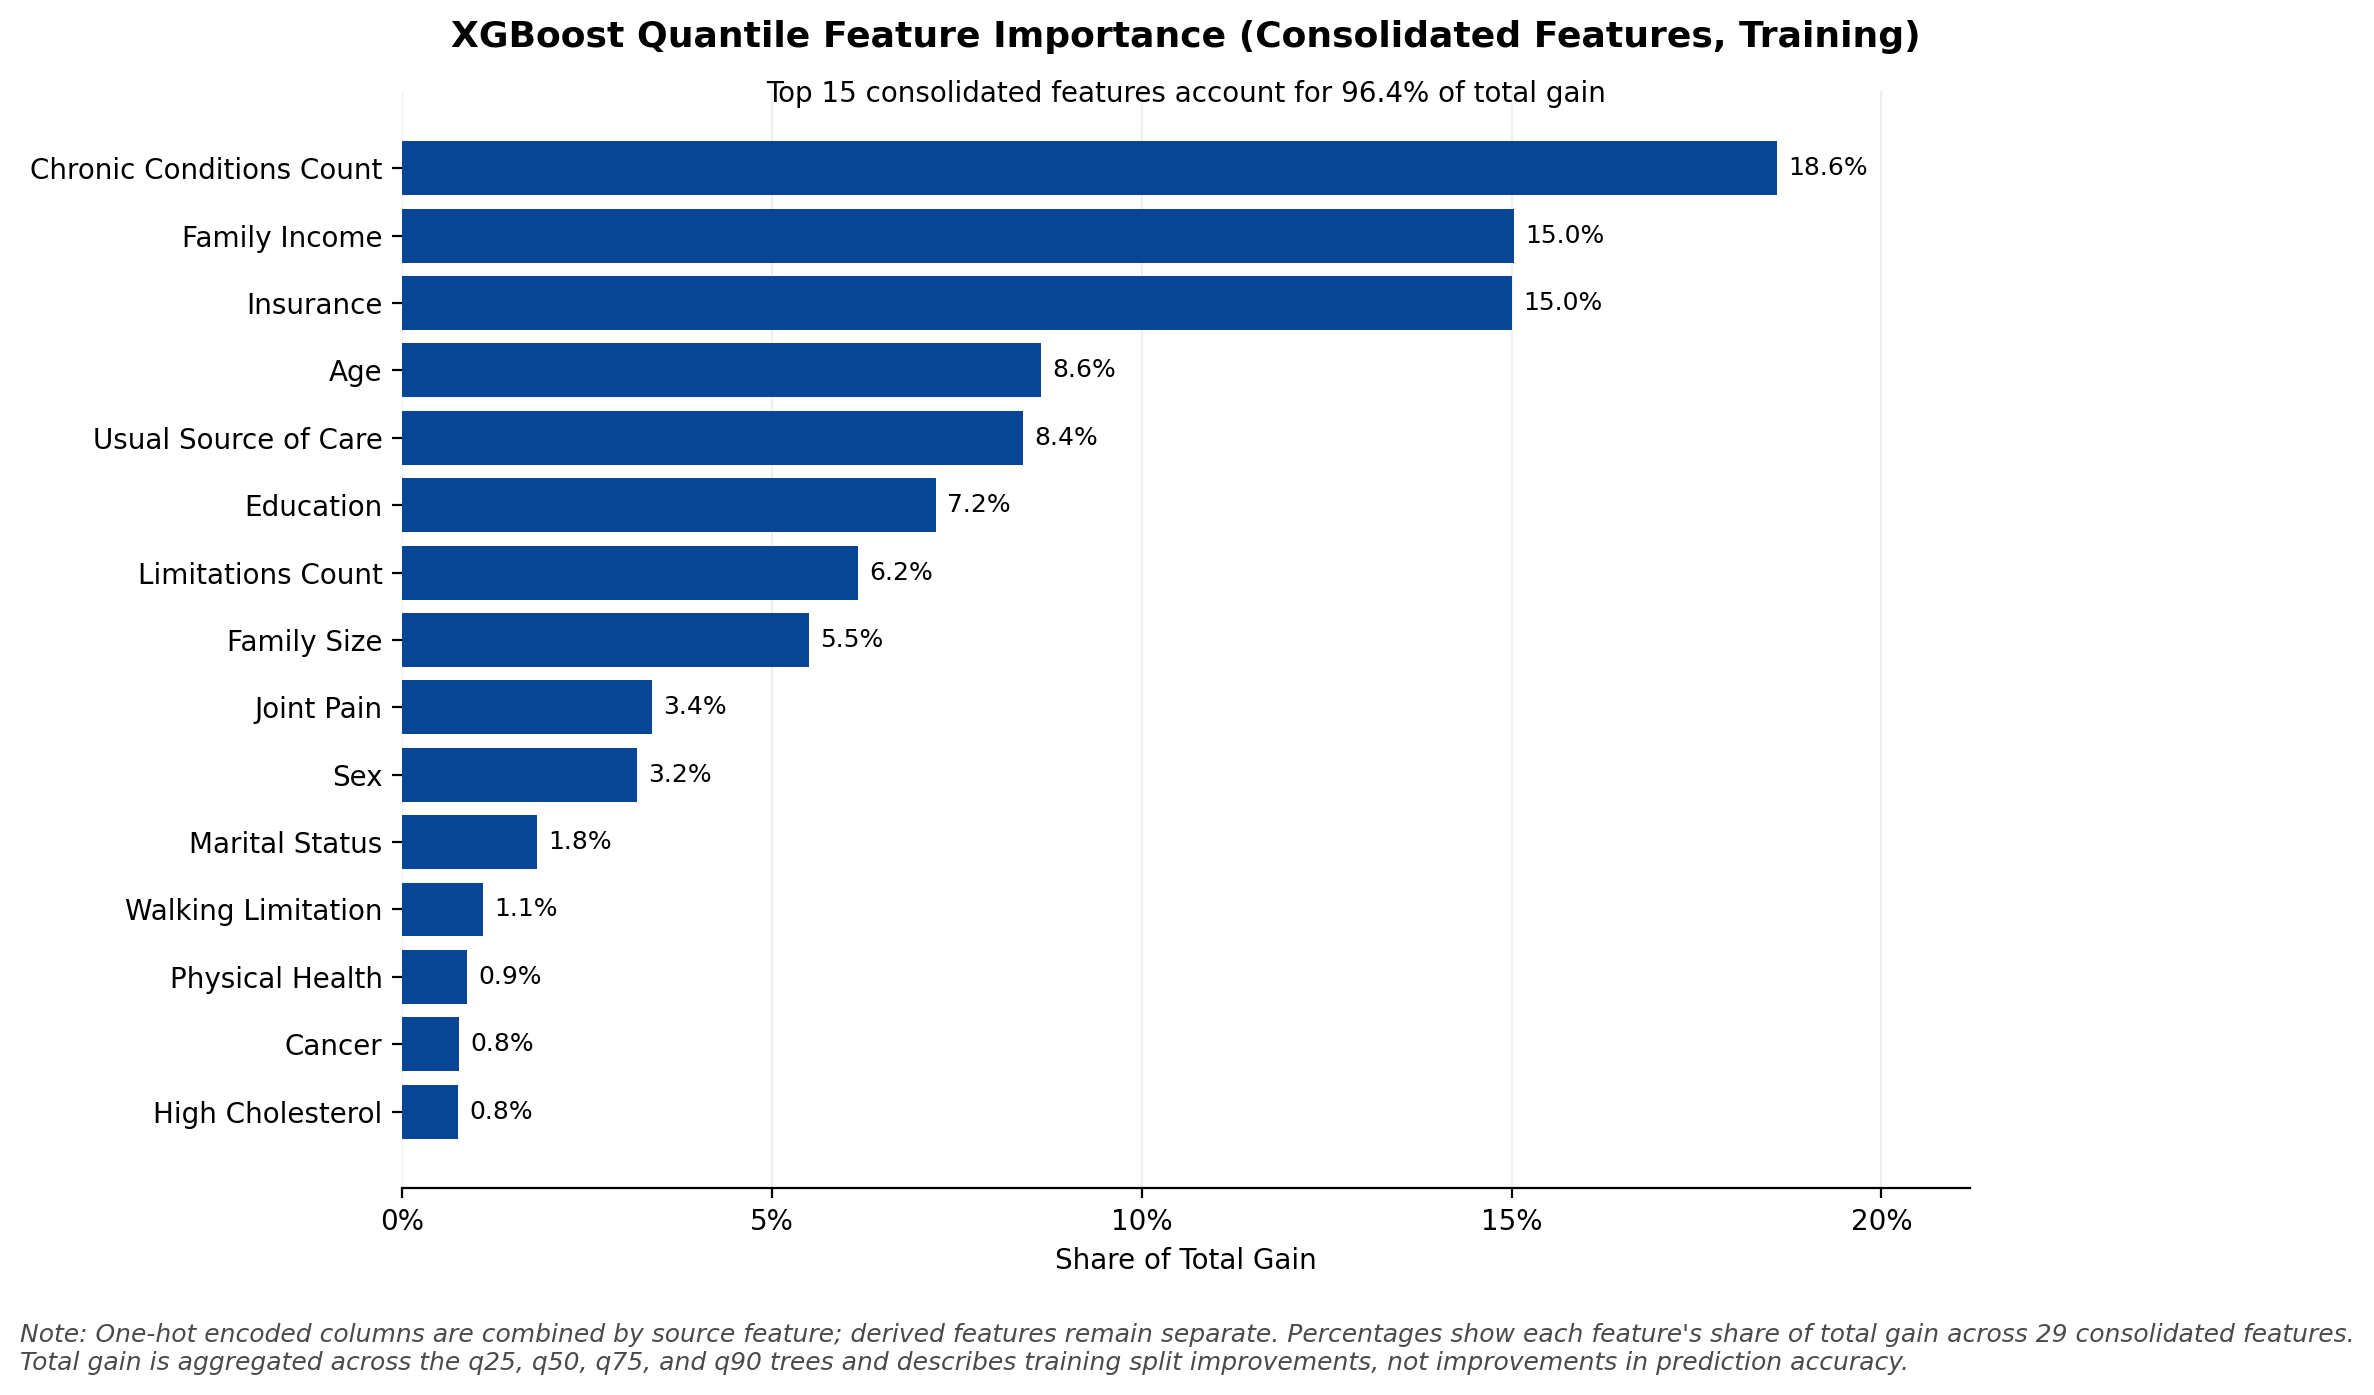
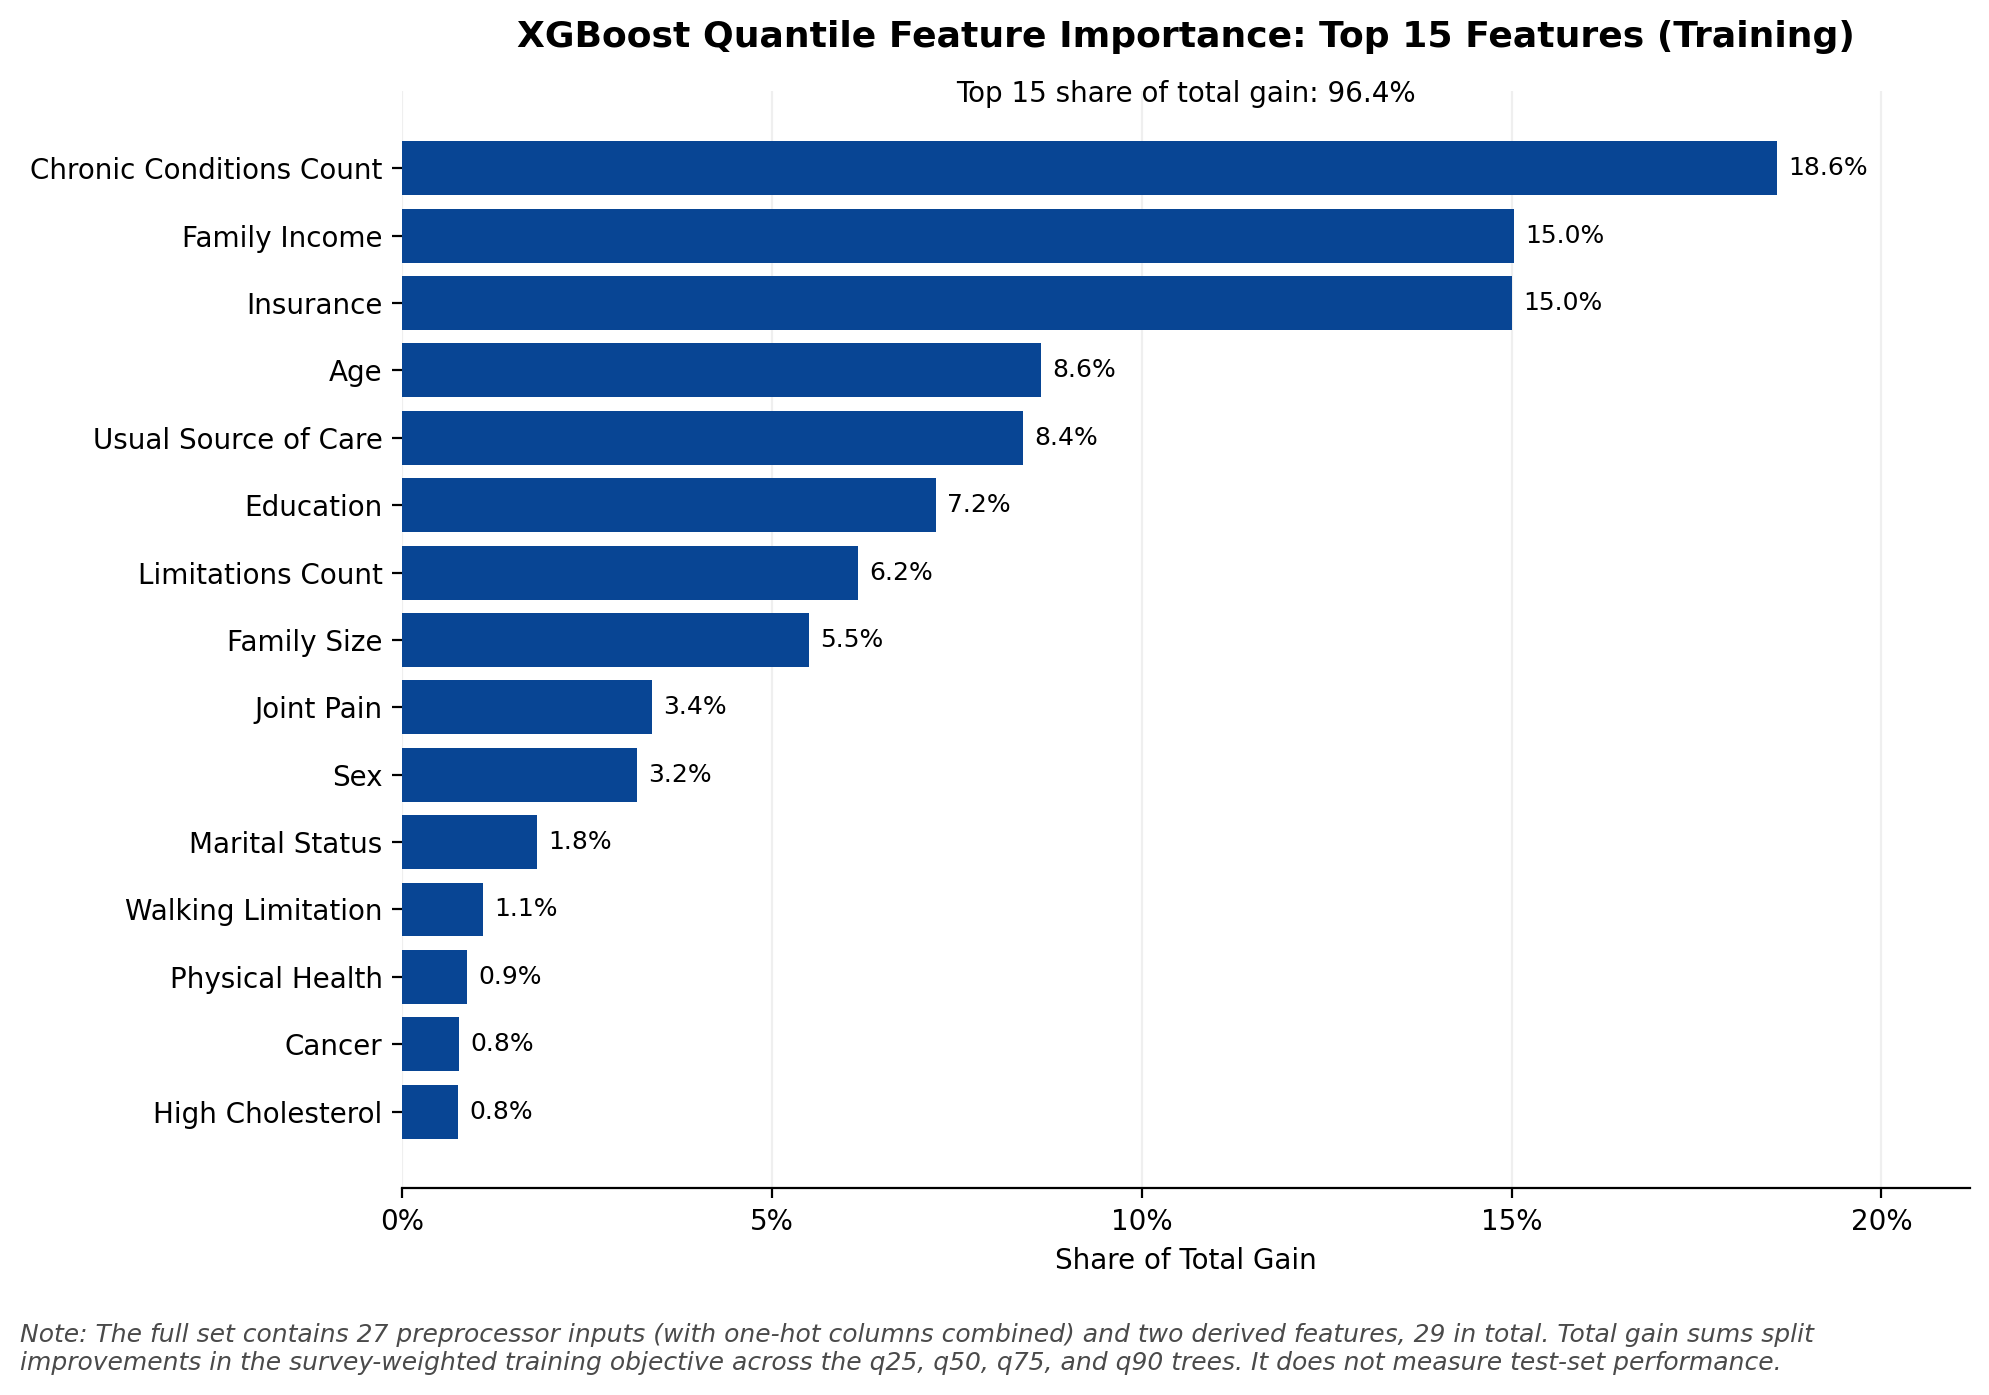
docs(eval): clarify XGBoost feature importance

diff --git a/notebooks/2_modeling.py b/notebooks/2_modeling.py
@@ -5287,11 +5287,11 @@ plt.show()
 #     <br><br>
 #     XGBoost provides several native importance measures:
 #     <ul>
-#         <li><code>total_gain</code> is the total training-objective improvement from all splits using a feature. It is the primary ranking because it combines how often the feature was used with how valuable those splits were.</li>
-#         <li><code>gain</code> is the average objective improvement per split. It identifies features that produced valuable splits when used.</li>
-#         <li><code>weight</code> is the number of splits using the feature. It shows how frequently the model relied on that feature.</li>
+#         <li><code>total_gain</code> is the total training-objective improvement from all splits using a feature. It combines how often the feature was used with how valuable those splits were. Use it as the primary diagnostic.</li>
+#         <li><code>gain</code> is the average objective improvement per split. It shows how valuable those splits were, but not how often the feature was used.</li>
+#         <li><code>weight</code> is the number of splits using the feature (split count). It shows how frequently the model relied on that feature, not how valuable those splits were.</li>
 #     </ul>
-#     Gain and weight are supporting diagnostics that explain whether high total gain came from frequent modest improvements or fewer high-value splits. For example, Mental Health was used in 797 splits, slightly more often than Uninsured at 733 splits. However, its average gain was only 1.0 compared with 12.8 for Uninsured. Mental Health therefore accounts for 0.7% of total gain, while Uninsured accounts for 8.0%. This shows why split count alone can give a misleading importance ranking.
+#     Use gain and weight are supporting diagnostics that explain whether high total gain came from frequent modest improvements or fewer high-value splits. For example, Mental Health was used in 797 splits, slightly more often than Uninsured at 733 splits. However, its average gain was only 1.0 compared with 12.8 for Uninsured. Mental Health therefore accounts for 0.7% of total gain, while Uninsured accounts for 8.0%. This shows why split count alone can give a misleading importance ranking.
 #     <br><br>
 #     These measures are based on training data, are not q50-specific, and are not measured in dollars or shares of predictive accuracy.
 # </div>
@@ -5605,7 +5605,7 @@ ax.xaxis.set_major_formatter(
 )
 ax.xaxis.set_major_locator(plt.MultipleLocator(0.05))
 ax.set_title(
-    "XGBoost Quantile Feature Importance (Consolidated Features, Training)",
+    "XGBoost Quantile Feature Importance: Top 15 Features (Training)",
     fontsize=13,
     fontweight="bold",
     pad=16,
@@ -5614,8 +5614,7 @@ ax.text(
     0.5,
     0.99,
     (
-        "Top 15 consolidated features account for "
-        f"{xgb_consolidated_top_15_share:.1%} of total gain"
+        f"Top 15 share of total gain: {xgb_consolidated_top_15_share:.1%}"
     ),
     transform=ax.transAxes,
     ha="center",
@@ -5632,8 +5631,8 @@ fig.text(
     0.01,
     0.01,
     (
-        "Note: One-hot encoded columns are combined by source feature; derived features remain separate. Percentages show each feature's share of total gain across 29 consolidated features.\n"
-        "Total gain is aggregated across the q25, q50, q75, and q90 trees and describes training split improvements, not improvements in prediction accuracy."
+        "Note: The full set contains 27 preprocessor inputs (with one-hot columns combined) and two derived features, 29 in total. Total gain sums split\n"
+        "improvements in the survey-weighted training objective across the q25, q50, q75, and q90 trees. It does not measure test-set performance."
     ),
     ha="left",
     va="bottom",
